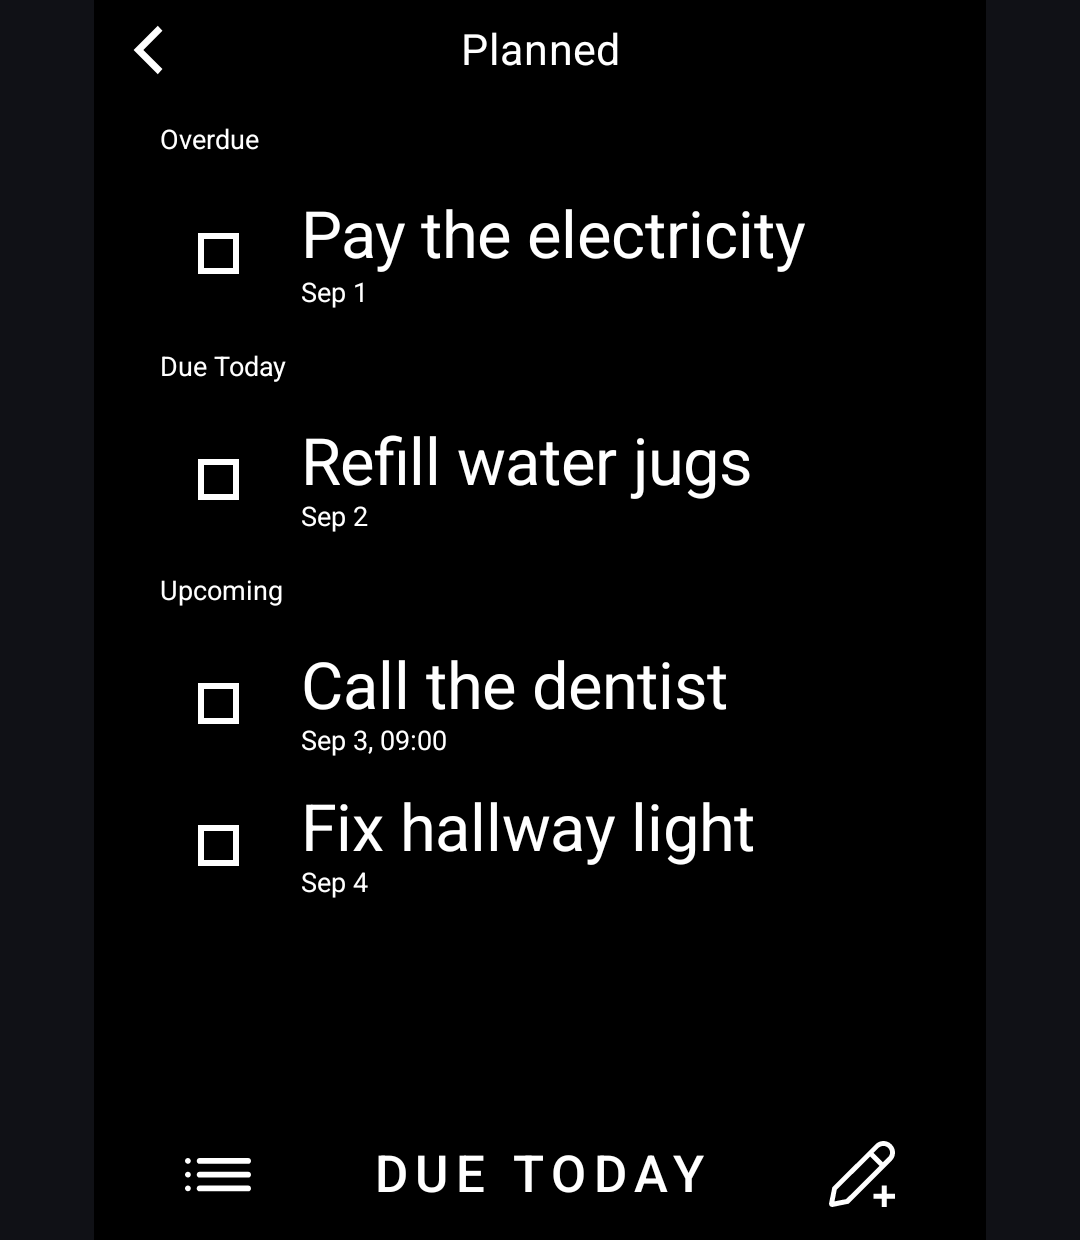
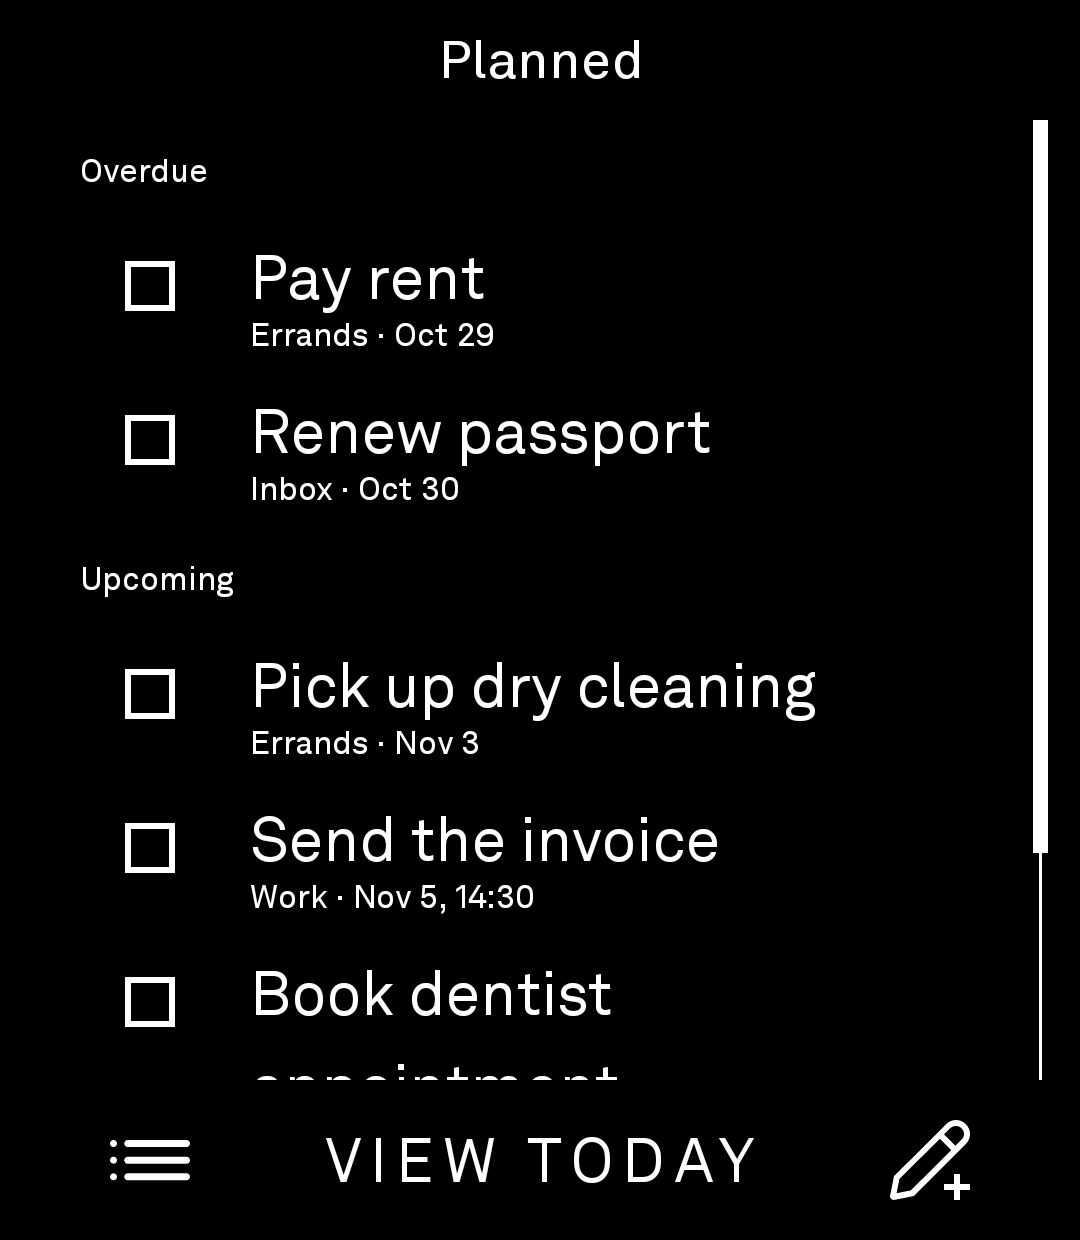
Refresh README screenshots (0.3.0 UI: lists panel, planned, completed, inbox)

diff --git a/README.md b/README.md
@@ -24,12 +24,13 @@ Tasks is in **beta**. It is suitable for daily use; features and behavior may st
 
 # Screenshots
 
-Tasks in the All, task details, and Planned views (light-on-black):
+Tasks in the Inbox, Planned, and Completed views, and the Lists panel (light-on-black):
 
 <p align="center">
-  <img src="screenshots/home-all.png" width="32%" alt="All tasks, grouped by category" />
-  <img src="screenshots/details.png" width="32%" alt="A task's read-only details" />
-  <img src="screenshots/planned.png" width="32%" alt="Planned view — Overdue, Due Today, Upcoming" />
+  <img src="screenshots/inbox.png" width="24%" alt="The Inbox main list" />
+  <img src="screenshots/planned.png" width="24%" alt="Planned view — Overdue and Upcoming" />
+  <img src="screenshots/completed.png" width="24%" alt="Completed tasks, struck through" />
+  <img src="screenshots/lists.png" width="24%" alt="The Lists panel" />
 </p>
 
 ---
